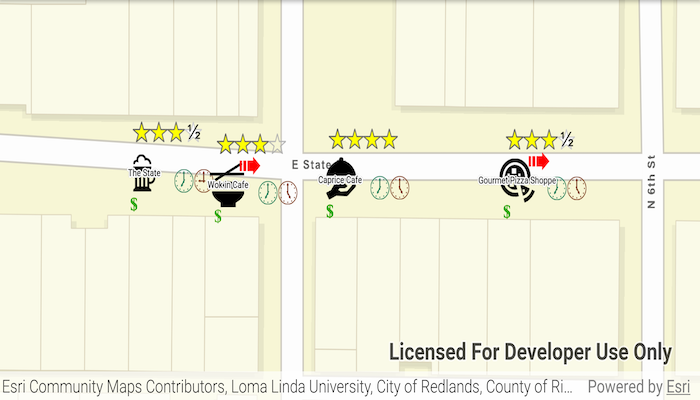
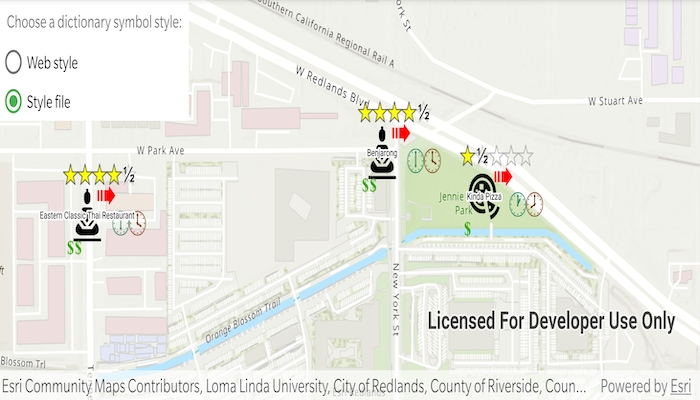
Trev8939/dictionary renderer web style (#878)
* initial commit

* change custom dictionary style sample to create dictionary symbol styles from both a local stylx file and a portal item

* Update README.md

* PR fixes

diff --git a/kotlin/custom-dictionary-style/src/main/java/com/esri/arcgisruntime/sample/customdictionarystyle/MainActivity.kt b/kotlin/custom-dictionary-style/src/main/java/com/esri/arcgisruntime/sample/customdictionarystyle/MainActivity.kt
@@ -6,58 +6,82 @@ import com.esri.arcgisruntime.ArcGISRuntimeEnvironment
 import com.esri.arcgisruntime.data.ServiceFeatureTable
 import com.esri.arcgisruntime.layers.FeatureLayer
 import com.esri.arcgisruntime.mapping.ArcGISMap
-import com.esri.arcgisruntime.mapping.Basemap
 import com.esri.arcgisruntime.mapping.BasemapStyle
 import com.esri.arcgisruntime.mapping.Viewpoint
+import com.esri.arcgisruntime.portal.Portal
+import com.esri.arcgisruntime.portal.PortalItem
 import com.esri.arcgisruntime.symbology.DictionaryRenderer
 import com.esri.arcgisruntime.symbology.DictionarySymbolStyle
 import kotlinx.android.synthetic.main.activity_main.*
+import kotlinx.android.synthetic.main.style_controls_layout.*
 
 class MainActivity : AppCompatActivity() {
 
-  override fun onCreate(savedInstanceState: Bundle?) {
-    super.onCreate(savedInstanceState)
-    setContentView(R.layout.activity_main)
+    override fun onCreate(savedInstanceState: Bundle?) {
+        super.onCreate(savedInstanceState)
+        setContentView(R.layout.activity_main)
 
-    // authentication with an API key or named user is required to access basemaps and other 
-    // location services
-    ArcGISRuntimeEnvironment.setApiKey(BuildConfig.API_KEY)
+        // authentication with an API key or named user is required to access basemaps and other
+        // location services
+        ArcGISRuntimeEnvironment.setApiKey(BuildConfig.API_KEY)
 
-    // create a feature layer from a service feature table
-    val featureTable = ServiceFeatureTable(getString(R.string.restaurants_url))
-    val featureLayer = FeatureLayer(featureTable).apply {
-      // use a custom style to create a dictionary renderer and set it to the feature layer renderer
-      renderer = DictionaryRenderer(
-        DictionarySymbolStyle.createFromFile(
-          getExternalFilesDir(null)?.path + getString(R.string.restaurant_stylx_path)
-        )
-      )
+        // create a feature layer from a service feature table
+        val featureTable =
+            ServiceFeatureTable("https://services2.arcgis.com/ZQgQTuoyBrtmoGdP/arcgis/rest/services/Redlands_Restaurants/FeatureServer/0")
+        val featureLayer = FeatureLayer(featureTable)
+
+        // create a new map with a streets basemap and set it to the map view
+        mapView.map = ArcGISMap(BasemapStyle.ARCGIS_TOPOGRAPHIC).apply {
+            // add the the feature layer to the map's operational layers
+            operationalLayers.add(featureLayer)
+            // set the initial viewpoint to the Esri Redlands campus
+            initialViewpoint = Viewpoint(34.0574, -117.1963, 5000.0)
+        }
+
+        // create a dictionary symbol style from the stylx file
+        val dictionarySymbolStyleFromFile =
+            DictionarySymbolStyle.createFromFile(getExternalFilesDir(null)?.path + "/Restaurant.stylx")
+        // create a new dictionary renderer from the dictionary symbol style
+        val dictionaryRendererFromFile = DictionaryRenderer(dictionarySymbolStyleFromFile)
+
+        // on style file click
+        styleFileRadioButton.setOnClickListener {
+            // set the feature layer renderer to the dictionary renderer from local stylx file
+            featureLayer.renderer = dictionaryRendererFromFile
+        }
+        // set the initial state to use the dictionary renderer from local stylx file
+        styleFileRadioButton.performClick()
+
+        // create a portal item using the portal and the item id of the dictionary web style
+        val portal = Portal("https://arcgisruntime.maps.arcgis.com")
+        val portalItem = PortalItem(portal, "adee951477014ec68d7cf0ea0579c800")
+        // map the input fields in the feature layer to the dictionary symbol style's expected fields for symbols and text
+        val fieldMap: HashMap<String, String> = HashMap()
+        fieldMap["healthgrade"] = "Inspection"
+        // create a new dictionary symbol style from the web style in the portal item
+        val dictionarySymbolStyleFromPortal = DictionarySymbolStyle(portalItem)
+        // create a new dictionary renderer from the dictionary symbol style
+        val dictionaryRendererFromPortal = DictionaryRenderer(dictionarySymbolStyleFromPortal, fieldMap, HashMap())
+
+        // on web style click
+        webStyleRadioButton.setOnClickListener {
+            // set the feature layer renderer to the dictionary renderer from portal
+            featureLayer.renderer = dictionaryRendererFromPortal
+        }
     }
 
-    // set the map view's viewpoint to the feature layer extent when loaded
-    featureLayer.addDoneLoadingListener {
-      mapView.setViewpointAsync(Viewpoint(featureLayer.fullExtent))
+    override fun onPause() {
+        mapView.pause()
+        super.onPause()
     }
 
-    // create a new map with a streets basemap and set it to the map view
-    mapView.map = ArcGISMap(BasemapStyle.ARCGIS_STREETS).apply {
-      // add the the feature layer to the map's operational layers
-      operationalLayers.add(featureLayer)
+    override fun onResume() {
+        super.onResume()
+        mapView.resume()
     }
-  }
 
-  override fun onPause() {
-    mapView.pause()
-    super.onPause()
-  }
-
-  override fun onResume() {
-    super.onResume()
-    mapView.resume()
-  }
-
-  override fun onDestroy() {
-    mapView.dispose()
-    super.onDestroy()
-  }
+    override fun onDestroy() {
+        mapView.dispose()
+        super.onDestroy()
+    }
 }

diff --git a/kotlin/custom-dictionary-style/README.md b/kotlin/custom-dictionary-style/README.md
@@ -1,8 +1,8 @@
 # Custom dictionary style
 
-Use a custom dictionary style (.stylx) to symbolize features using a variety of attribute values.
+Use a custom dictionary style created from a web style or local style file (.stylx) to symbolize features using a variety of attribute values.
 
-![Custom dictionary style](custom-dictionary-style.png)
+![Image of custom dictionary style](custom-dictionary-style.png)
 
 ## Use case
 
@@ -10,22 +10,29 @@ When symbolizing geoelements in your map, you may need to convey several pieces 
 
 ## How to use the sample
 
-Pan and zoom the map to see the symbology from the custom dictionary style.
+Use the radio buttons to toggle between the dictionary symbols from the web style and style file. Pan and zoom around the map to see the symbology from the chosen dictionary symbol style. The web style and style file are slightly different to each other to give a visual indication of the switch between the two.
 
 ## How it works
 
-1. Create a new `DictionarySymbolStyle` by passing in the path to the custom style file (.stylx).
-2. Create a new `DictionaryRenderer`, providing the dictionary symbol style.
-3. Apply the dictionary renderer to a feature layer.
+1. Create a `DictionarySymbolStyle` from a local .stylx file.
+2. Create a `DictionaryRenderer` from this dictionary symbol style.
+3. Create a `PortalItem`, referring to a `Portal` and the item ID of the web style.
+4. Create a `DictionarySymbolStyle` from this portal item.
+5. Create a `DictionaryRenderer` from this dictionary symbol style.
+6. Based on the style selected, use `featureLayer.setRenderer(...)` to the correct dictionary symbol style.
 
 ## Relevant API
 
 * DictionaryRenderer
 * DictionarySymbolStyle
+* Portal
+* PortalItem
 
 ## About the data
 
-The layer showing a subset of [restaurants in Redlands, CA](https://services2.arcgis.com/ZQgQTuoyBrtmoGdP/arcgis/rest/services/Redlands_Restaurants/FeatureServer)  with attributes for rating, style, health score, and open hours is symbolized using a dictionary renderer that displays a single symbol for all of these variables. The renderer uses symbols from a [custom dictionary style](https://arcgisruntime.maps.arcgis.com/home/item.html?id=751138a2e0844e06853522d54103222a) to show unique symbols based on several feature attributes. The symbols it contains were created using ArcGIS Pro. The logic used to apply the symbols comes from an Arcade script embedded in the stylx file (which is a SQLite database), along with a JSON string that defines expected attribute names and configuration properties.
+The data used in this sample is from a feature layer showing a subset of [restaurants in Redlands, CA](https://services2.arcgis.com/ZQgQTuoyBrtmoGdP/arcgis/rest/services/Redlands_Restaurants/FeatureServer) hosted as a feature service with attributes for rating, style, health score, and open hours.
+
+The feature layer is symbolized using a dictionary renderer that displays a single symbol for all of these variables. The renderer uses symbols from a custom restaurant dictionary style created from a [stylx file](https://arcgis.com/home/item.html?id=751138a2e0844e06853522d54103222a) and a [web style](https://arcgis.com/home/item.html?id=adee951477014ec68d7cf0ea0579c800), available as items from ArcGIS Online, to show unique symbols based on several feature attributes. The symbols it contains were created using ArcGIS Pro. The logic used to apply the symbols comes from an Arcade script embedded in the stylx file (which is a SQLite database), along with a JSON string that defines expected attribute names and configuration properties.
 
 ## Additional information
 
@@ -45,10 +52,5 @@ Link | Local Location
 |[Restaurant stylx](https://arcgisruntime.maps.arcgis.com/home/item.html?id=751138a2e0844e06853522d54103222a)| /Android/data/com.esri.arcgisruntime.sample.customdictionarystyle/files/Restaurant.stylx |
 
 ## Tags
-Visualization
-dictionary
-military
-renderer
-style
-stylx
-unique value
+
+dictionary, military, portal, portal item, renderer, style, stylx, unique value, visualization
